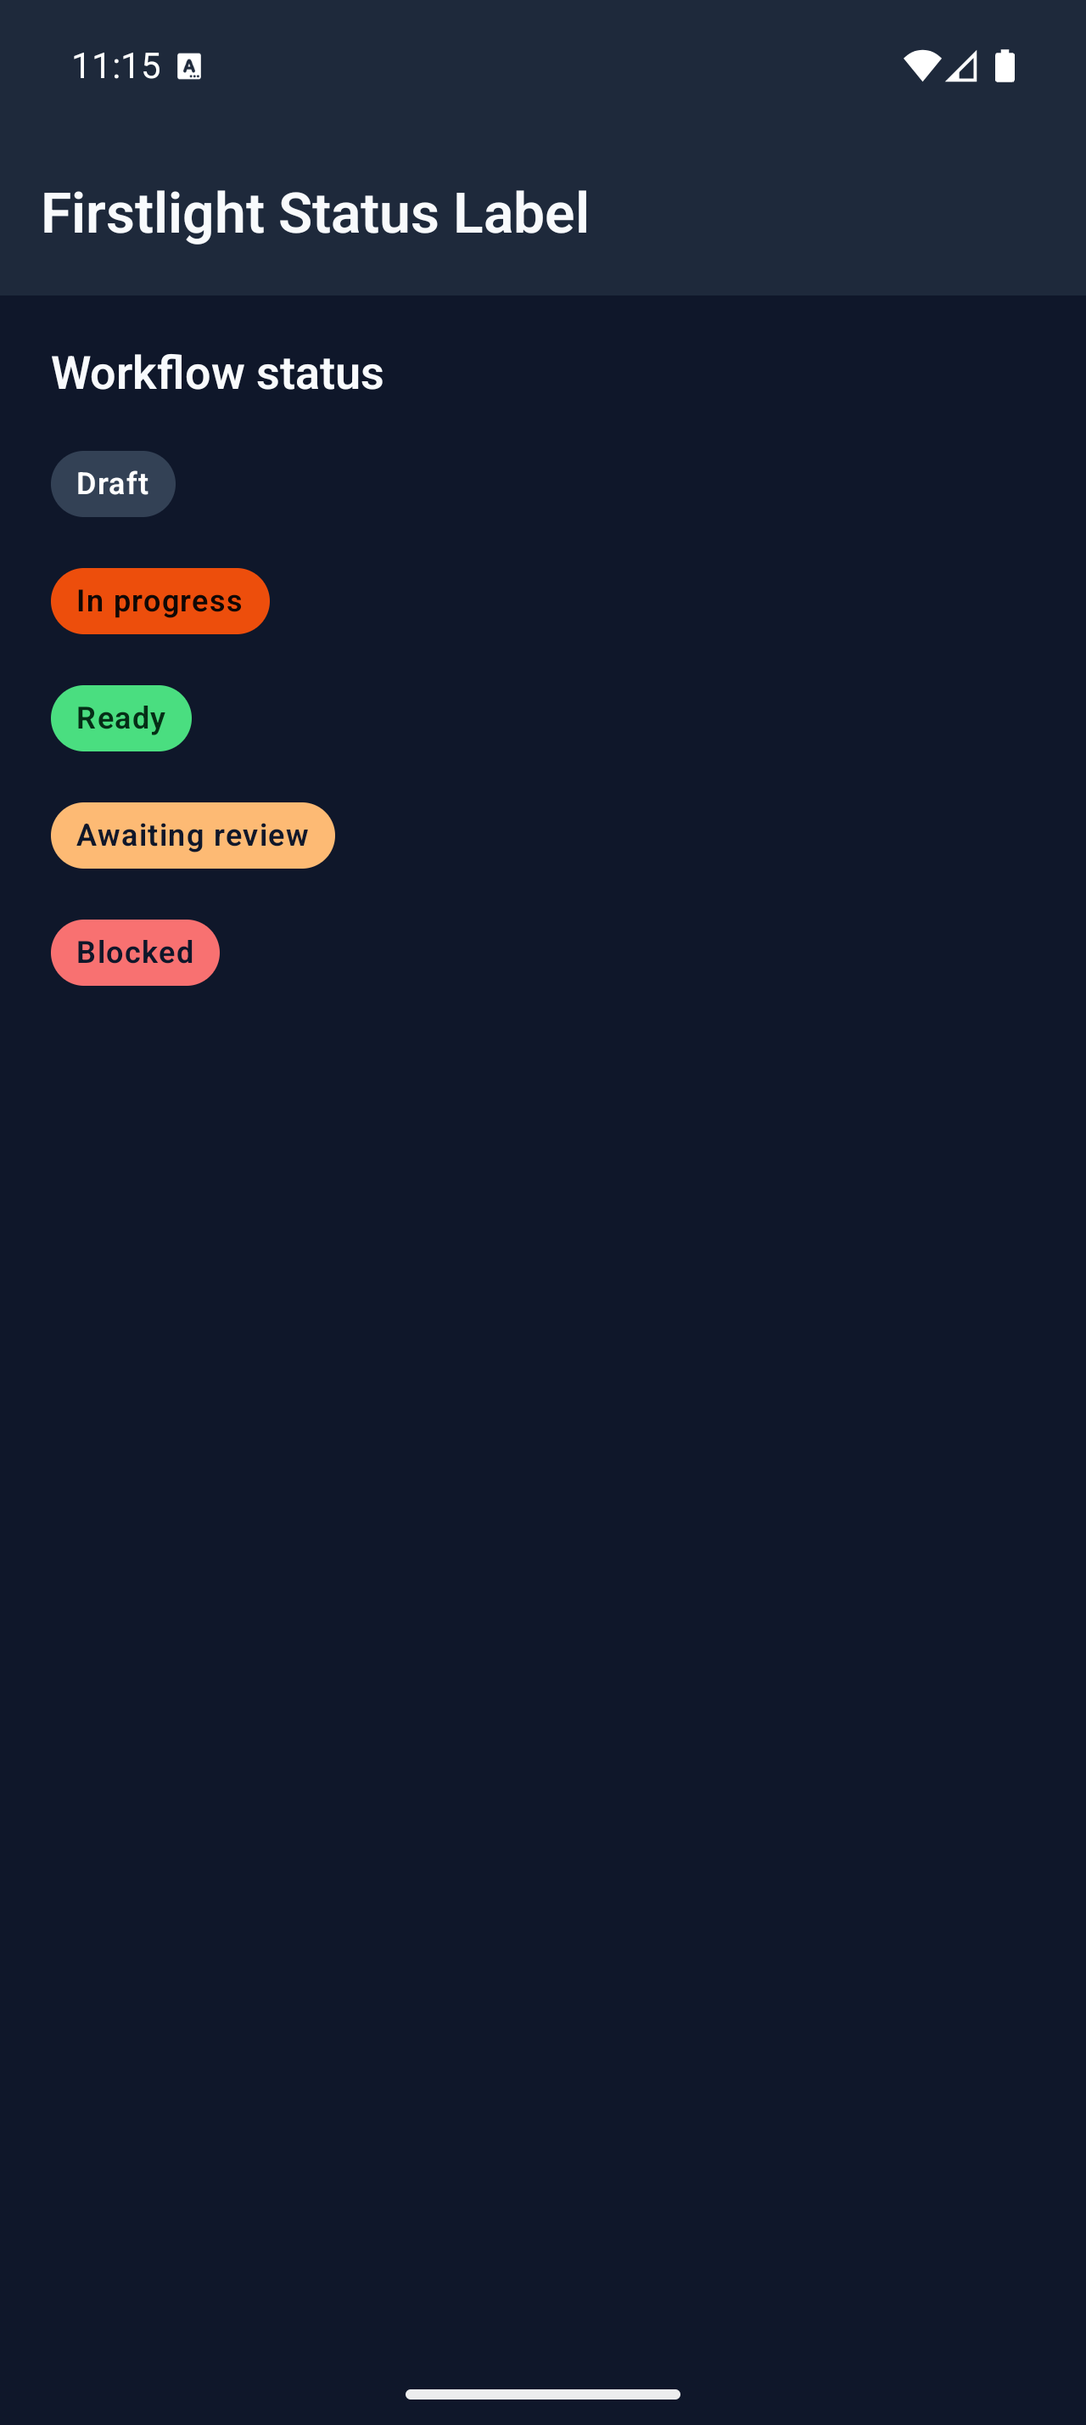
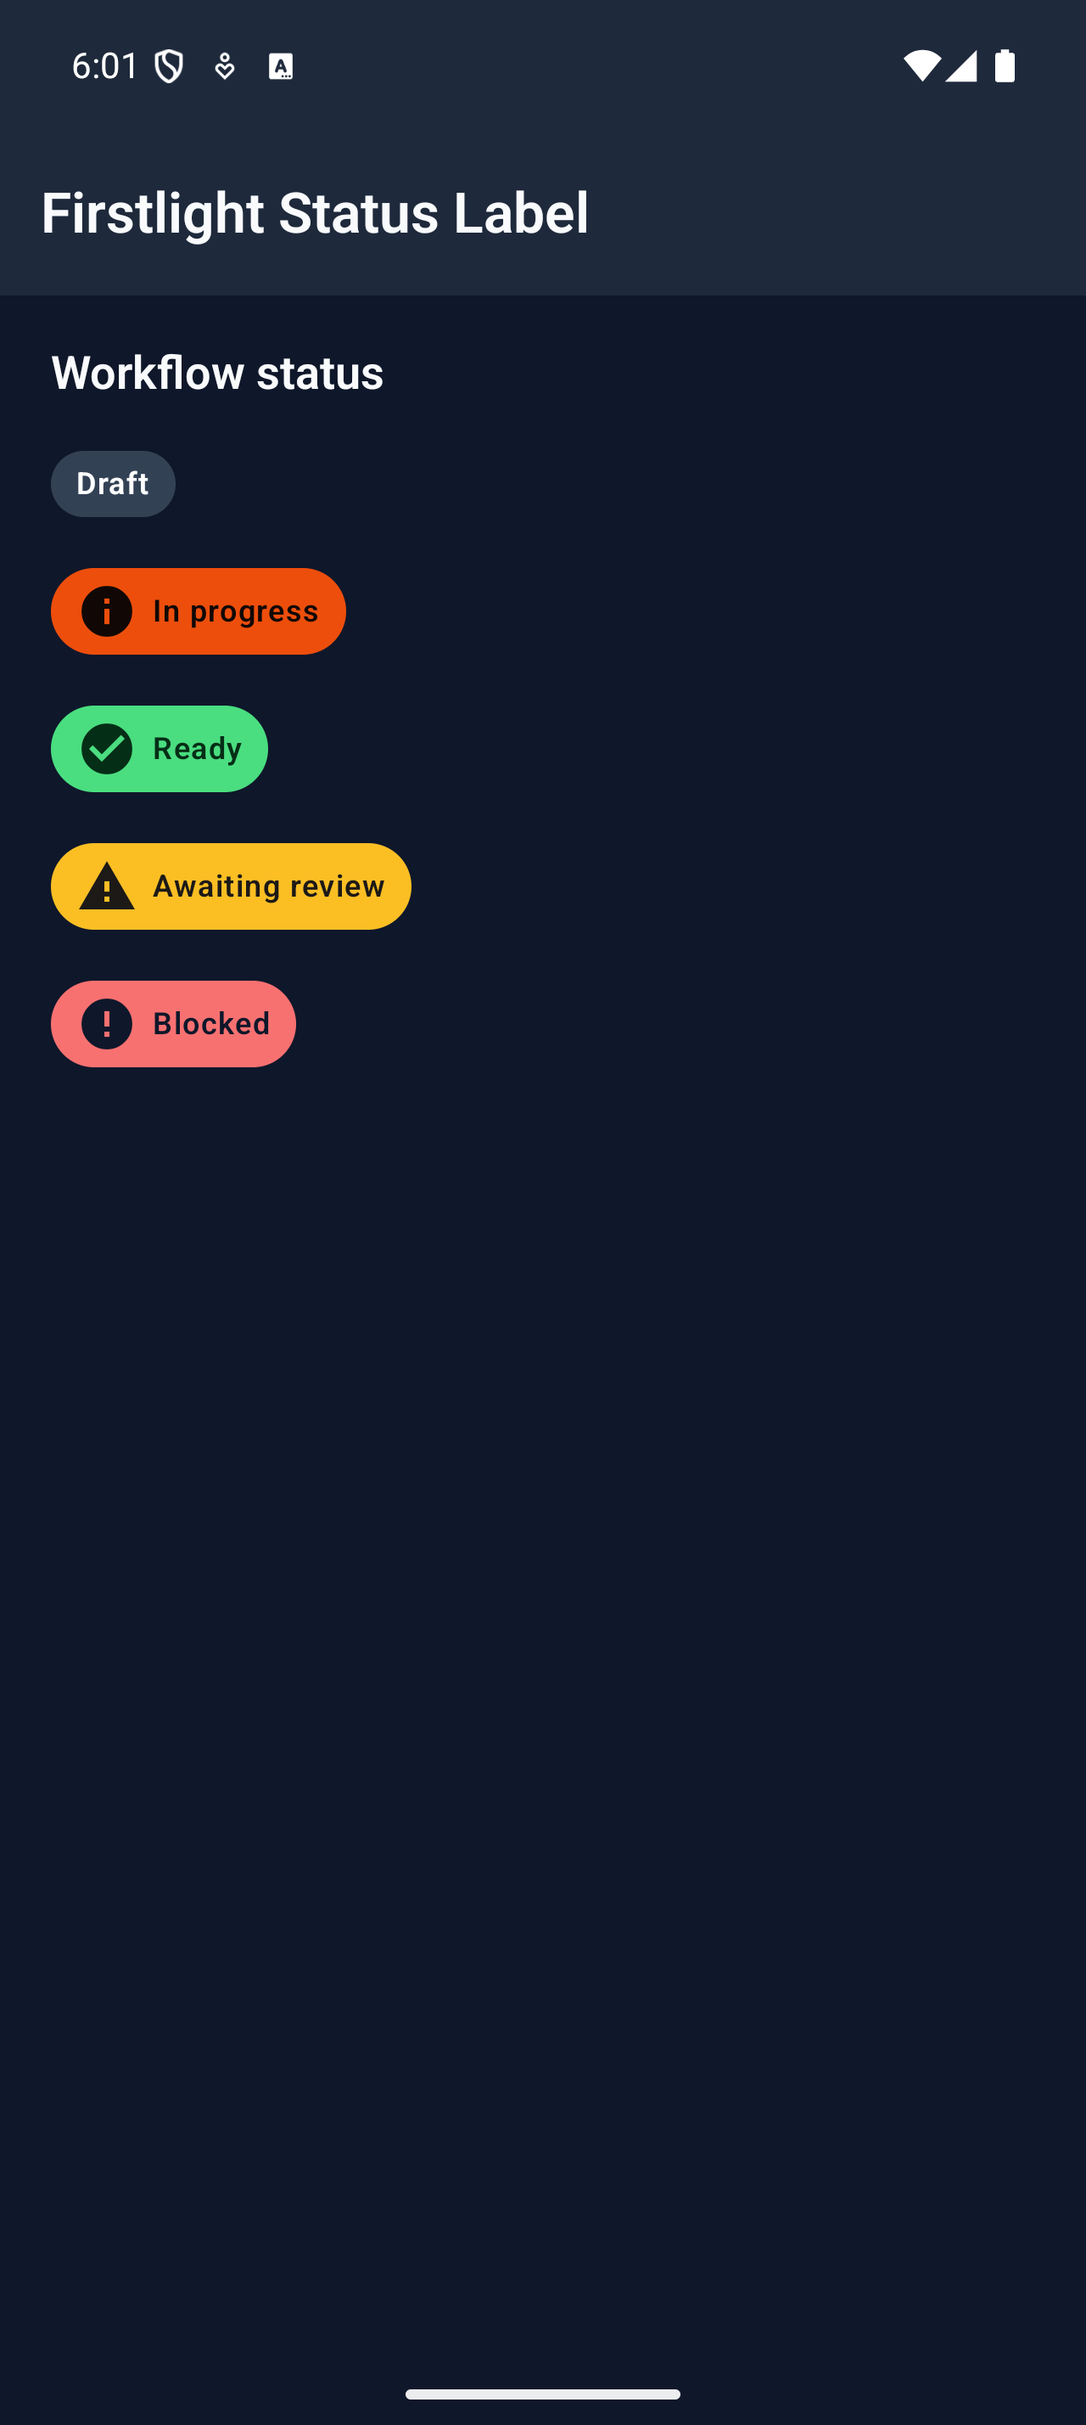
docs: add approved native evidence for Tipoff gaps
Record native builds, accessibility limits, restoration and the deferred upstream theme race. Publish both platform matrices and largest-text captures.

Amp-Thread-ID: https://ampcode.com/threads/T-01a164ab-17b5-7197-997c-db446686336b

diff --git a/spec/reviews/2026-10-22-tipoff-gaps-development.md b/spec/reviews/2026-10-22-tipoff-gaps-development.md
@@ -1,7 +1,7 @@
 ---
 title: Tipoff gaps development review
-description: Catalogue decisions, off-device evidence, and remaining native gates for the second Tipoff brief.
-status: blocked
+description: Catalogue decisions, approved native evidence, and outstanding release qualification for the second Tipoff brief.
+status: current
 sources:
   - Constitution.md
   - spec/designs/2026-10-22-tipoff-gaps-design.md
@@ -13,15 +13,19 @@ sources:
 
 # Tipoff gaps development review
 
-Reviewed 2026-10-22 in the Linux orb. Work is local and uncommitted; native runner
-selection and simulator/emulator permission have been requested. No package tag,
-release, deployment or upstream issue has been created.
+Reviewed 2026-10-22–23 in the Linux orb and on the user-authorized mini.local runner.
+Implementation commits:
+[package](https://github.com/firstlightui/nativephp/commit/6267f6c),
+[showcase](https://github.com/firstlightui/showcase/commit/f424aa5), and
+[showcase build metadata fix](https://github.com/firstlightui/showcase/commit/646a40d).
+The maintainer approved all twelve screenshots and explicitly deferred the
+upstream theme race. No stable/alpha qualification is claimed.
 
 | Brief item | Decision and current result |
 | --- | --- |
 | 1. Accessible tappable surface | Upstream core ownership. No duplicate generic container tag. Design note identifies released collector and both renderer paths; Blade preserves labels, native generic renderers do not consume the requested semantics. Consumer docs name safe Button/List Item alternatives without claiming arbitrary banners are solved. |
-| 2. Status Label icon | Implemented off-device with shared icon resolution, typed/platform overrides, decorative semantics and tone foreground. Native captures and iOS execution remain blocked. Existing text-only docs PNGs are preserved and explicitly labelled as old evidence. |
-| 3. Metric | New static semantic display; design then plan, scaffold, failing PHP tests then implementation. One grouped accessible description, formatted string value, tabular figures and wrapping. Optional press deferred to core; no tile/panel/layout API. Showcase/capture routes and docs added. Native capture and iOS execution remain blocked. |
+| 2. Status Label icon | Implemented with shared icon resolution, typed/platform overrides, decorative semantics and tone foreground. Both platform tests and consumer builds pass. Replacement native matrix and largest-text captures pass agent inspection and have explicit maintainer visual approval. |
+| 3. Metric | New static semantic display; design then plan, scaffold, failing PHP tests then implementation. One grouped accessible description, formatted string value, tabular figures and wrapping. Optional press deferred to core; no tile/panel/layout API. Both platform tests and consumer builds pass; complete native matrix and largest-text evidence pass agent inspection. |
 | 4. Status history | Design only in the Tipoff gaps design. Fits as semantic outcome history, not generic bars. Pending/empty/count/time semantics and non-colour cues recorded; no tag or implementation. |
 | 5. Feedback screen events | Laravel events retained, plus synchronous child-to-screen `emit()` with named action/dismiss payloads. Real screen-lifecycle Undo test proves republished state. Current-screen versus originating-screen/navigation limits and complete Undo example documented. |
 
@@ -32,25 +36,27 @@ release, deployment or upstream issue has been created.
 | I. SuperNative | PASS | Ordinary elements/manifest/renderers and existing `emit()`; no custom bridge, vendor patch or WebView. |
 | II. Familiar APIs | PASS | `icon`/`icon-ios`/`icon-android`, standard accessibility names, label/value/detail; no new Feedback tag. |
 | III. State | PASS | Metric is inert; Status Label remains display-only. Feedback removes before handlers, preserves action-before-dismiss order and consumes a semantic record once. |
-| IV. Equal platforms | BLOCKED | Both sources exist and Android compiles; iOS tests and both native consumer builds still required. |
-| V. Native expression | BLOCKED | SwiftUI text/SF Symbols and Material text/icons are implemented; native icon-bearing light/dark inspection remains pending. |
-| VI. Accessibility | BLOCKED | Android Metric semantics prove one description with no repeated fragments; Status Label decorative-icon semantics pass. iOS static grouping is implemented, but VoiceOver/TalkBack runtime checks and native largest-text evidence are pending. |
+| IV. Equal platforms | PASS (development) | Both platform test suites and native consumer builds pass. Physical-device release qualification remains separate. |
+| V. Native expression | PASS (development) | SwiftUI text/SF Symbols and Material text/icons pass native light/dark inspection on both targets. |
+| VI. Accessibility | BLOCKED (release) | Platform semantics tests and native largest-text wrapping pass. Android Metric has five combined descriptions without child fragments; Android Status Label has descriptions and text nodes but no icon-name nodes. iOS expanded trees include grouped labels and descendants. Spoken traversal remains unverified. |
 | VII. Theme | PASS | Semantic NativePHP tokens and package warning colours; no arbitrary style bag. |
 | VIII. Small expansion | PASS | Only Metric adds a semantic control; generic pressable/panels remain upstream; history is design-only. |
-| IX. Evidence | BLOCKED | Package/consumer/JVM checks pass; native host builds/captures and physical-device evidence are absent. |
+| IX. Evidence | PASS (development), BLOCKED (release) | Package/consumer/platform checks, native host builds, capture review and explicit maintainer visual approval pass. Physical-device, spoken AT, soak/performance and broader app qualification remain absent. |
 | X. Stewardship | PASS | Additive APIs; no version bump, tag or release-readiness claim. |
 | XI. Process | PASS | Create, platform, docs and review skills applied; Metric design/plan and public/maintained docs, manifest and showcase coverage exist. |
 
 ## Executed checks
 
-- Package full `vendor/bin/pest --compact`: 1,426 passed, 5 skipped, 4 warnings,
-  1 deprecated, 5,705 assertions at the combined checkpoint. The subsequent
-  selected-state rejection extends the focused Metric contract.
+- Package full `vendor/bin/pest --compact`: 1,427 passed, 5 skipped, 4 warnings,
+  1 deprecated, 5,706 assertions; reproduced on mini.local.
 - Focused Metric/FeedbackCenter/StatusLabel suite after that extension: 63 passed,
   266 assertions.
 - Full showcase `php artisan test --compact`: 172 passed, 3,334 assertions.
 - Full Android `testDebugUnitTest`: BUILD SUCCESSFUL; XML reports 290 tests,
   0 failures, 0 errors, 12 skipped (278 executed).
+- iOS package tests: TEST SUCCEEDED, exit 0; 282 tests, 6 skipped, 0 failures.
+  Diagnostic collection separately emitted a 600-second timeout warning after
+  the tests completed; this does not represent a failed test.
 - `bin/check-component Metric --development` and `StatusLabel --development`:
   passed.
 - `bin/build-docs-artifacts`, `bin/check-docs --development`, both repository
@@ -60,21 +66,73 @@ release, deployment or upstream issue has been created.
 - Inspected Metric Paparazzi light, dark and font-scale 2.0 production-renderer
   development renders: all values visible; long value wraps in full. These use
   the JVM harness and are **not** showcase emulator documentation captures.
+- Guarded native batch: eight default captures (two components, two platforms,
+  light/dark) pass agent inspection. Real Material/SF Symbol glyphs are visible;
+  Draft intentionally covers the optional text-only Status Label presentation.
+- Maximum iOS accessibility text and Android font scale 2.0: long Status Label
+  text and the Metric value `1,234.50 milliseconds` remain complete. iOS content
+  is scrollable; separate scrolled captures show the full long labels/values
+  clear of the floating showcase footer. No ellipsis or internal truncation.
 
 ## Remaining gates and handoff
 
-Choose the connected Mac runner and explicitly authorize the already-open native
-targets before any target listing, build/capture or appearance changes. Install
-the exact local package/showcase files there via file transfer, not a remote main
-checkout (this orb's work is unpushed). Preserve unrelated local edits. Use the
-guarded batch capture for StatusLabel and Metric; add largest text evidence on
-both platforms, restore appearances, and inspect every new image. Only approved
-native documentation PNGs belong under `docs/screenshots/`.
+The user authorized the available mini.local simulators and emulators. Exact
+package/showcase files were transferred over matching bases, preserving unrelated
+untracked directories. Native targets are iPhone 17 Pro / iOS 26.5
+(`EB44C64E-1579-4C13-A1F9-C44FBD496763`) and Pixel_9_Pro / Android 16 API 36
+(`emulator-5554`). The guarded batch completed for StatusLabel and Metric.
+The approved matrix and largest-text PNGs are committed under
+`docs/screenshots/{status-label,metric}/`: each directory contains `ios-light.png`,
+`ios-dark.png`, `android-light.png`, `android-dark.png`, `ios-largest-text.png` and
+`android-largest-text.png`. Approval: maintainer `wojt`, in the
+[source thread](https://ampcode.com/threads/T-01a164ab-17b5-7197-997c-db446686336b).
+
+Final evidence archive: `firstlight-gaps-mini-final.tar.gz`, SHA-256
[1 lines of base64/hex data omitted]
+Transfer checksum and eight real default PNG entries were verified in the orb;
+the default PNGs byte-match the inspected and approved review images.
+
+Restoration verified: iOS remains booted with original dark appearance, large
+content size and Reduce Motion enabled. Android night mode, font scale and
+animator setting were restored; only the AVD started for this task was shut down.
+Both installed start routes are `/`, both preview caches are light, and the host
+showcase `.env` hash is unchanged. Build-induced lockfile changes were restored;
+preexisting adjacent untracked work was preserved.
+
+The first iOS Metric captures were rejected: they displayed Status Label because
+cold launches re-extracted the first bundled route. Installed bundle metadata
+proved that the environment build number was serialized as a string; iOS's
+numeric-only version reader fell back to zero and mismatched the installed build.
+Casting showcase's `version_code` to an integer produces numeric JSON and fixes
+the mismatch without a vendor patch. A string environment fixture `"17"` emitted
+`{"version_code":"17"}` before and `{"version_code":17}` after; the rebuilt native
+bundle contains numeric `1`. Showcase's full suite still passes after the fix.
+Rejected captures are not documentation evidence.
+
+An additional interactive-preview check exposed an existing upstream theme race,
+not a Metric or Status Label styling change. With system-dark and preview-light,
+simulator stdout records both light palettes at lines 100–141, the first tree
+publication at 142–143, then configured light/dark palettes from line 149 onward.
+Timestamped stderr records the queue worker and four async TSRM contexts booting
+after dispatch. Each context boots Mobile UI's service provider, whose
+`NativeUIServiceProvider.php:65–66` calls `Theme::load()`; the iOS bridge writes the
+shared global store (`NativeUIThemeFunctions.swift:15–18`). Static tree background
+props retain the preview palette while native renderers resolve the overwritten
+global theme against system appearance, producing unreadable text. All four
+OS/preview combinations were executed on both platforms: matched themes pass;
+opposite themes fail cold. Warm-toggle reapplication restores Metric text but not
+all toggle/chrome/warning contrast, so it is not a qualified workaround. Android
+reproduces the visual failure; the detailed worker-bootstrap trace is iOS-only.
+The maintainer explicitly deferred this upstream issue. No vendor patch or
+parallel theme system is added.
 
 Android's official `MaterialIcon` helper does not take a variant-font argument;
 the icon variant is preserved in wire/configuration, while glyph drawing follows
 the official helper. Do not treat JVM icon shims as native glyph evidence.
 
-Overall development and release verdict: **BLOCKED on native evidence**. Finish
-those gates before the authorized direct-to-main landing; then replace this
-provisional delivery/evidence status with actual commit links and capture paths.
+Overall development verdict: **PASS with the explicitly deferred upstream preview
+race**. Release qualification remains **BLOCKED** on physical-device, spoken
+screen-reader and broader runtime gates; no stable/alpha-ready claim is made here.
+Pushing directly to main is authorized. The user requested the next RC when ready;
+the separate question about retaining RC1's disclosed qualification limits remains
+unanswered and is not inferred from screenshot approval or theme-race deferral.

diff --git a/CHANGELOG.md b/CHANGELOG.md
@@ -2,6 +2,26 @@
 
 All notable changes to this project will be documented in this file.
 
+## Unreleased
+
+### Added
+
+- Optional decorative Status Label icons using the shared `icon`, `icon-ios`, and `icon-android` contract, with tone-owned foregrounds in both appearances.
+- Static Metric display with a label, formatted string value, optional detail and semantic tone, one accessible description, tabular figures and large-text wrapping.
+- Catalogue decision notes for the core-owned accessible tappable surface and a design-only status-history display.
+
+### Fixed
+
+- Deliver Feedback action and dismissal events to the active screen's `#[On]` handlers as well as Laravel listeners, preserving exactly-once consumption and action-before-dismiss ordering. Screen-local Undo now participates in the normal interaction repaint.
+
+### Known limitations
+
+- Physical-device, spoken VoiceOver/TalkBack traversal, soak/performance and wider-application qualification remain outstanding; simulator/emulator evidence is not stable-release qualification.
+- Arbitrary tappable surfaces remain a NativePHP core accessibility handoff; Metric is display-only, and no status-history control is implemented.
+- NativePHP's Android Material icon helper draws the resolved icon name but does not accept a separate variant-font argument.
+- Opposite-system appearance previews in the showcase can lose contrast when upstream worker bootstraps overwrite the shared native theme. This existing theme-ownership race is explicitly deferred, not patched in Firstlight.
+- Requirements remain PHP `^8.4`, NativePHP Mobile `^4.6`, Mobile UI `^0.8`, iOS 18+, Android API 29+, and Swift tools 6.2.
+
 ## 1.0.0-RC1 - 2026-10-21
 
 ### Added

diff --git a/docs/components/metric.md b/docs/components/metric.md
@@ -75,7 +75,22 @@ the [supported NativePHP versions](../reference/compatibility.md).
 
 ## Screenshot evidence
 
-The stable showcase route is `/captures/metric`. The required matrix is
-`docs/screenshots/metric/{ios,android}-{light,dark}.png`, plus largest accessibility
-text evidence on both platforms. Native capture and screen-reader verification
-remain pending; this page does not claim release qualification from PHP tests.
+The stable showcase route is `/captures/metric`. These approved native captures
+use iPhone 17 Pro / iOS 26.5 and Pixel 9 Pro / Android 16 API 36.
+
+| Platform | Light | Dark |
+| --- | --- | --- |
+| iOS | ![Metric on iOS in light mode](../screenshots/metric/ios-light.png) | ![Metric on iOS in dark mode](../screenshots/metric/ios-dark.png) |
+| Android | ![Metric on Android in light mode](../screenshots/metric/android-light.png) | ![Metric on Android in dark mode](../screenshots/metric/android-dark.png) |
+
+The interactive showcase's longer value remains complete at maximum iOS
+accessibility text size and Android font scale 2.0. The iOS capture is scrolled to
+show the wrapped value; content behind native navigation chrome is outside the
+current viewport, not truncated by Metric.
+
+| iOS maximum accessibility text | Android font scale 2.0 |
+| --- | --- |
+| ![Metric with a wrapped long value on iOS](../screenshots/metric/ios-largest-text.png) | ![Metric with a long value on Android](../screenshots/metric/android-largest-text.png) |
+
+These are simulator/emulator visual checks. Spoken VoiceOver/TalkBack traversal
+and physical-device release qualification remain unverified.

diff --git a/docs/components/status-label.md b/docs/components/status-label.md
@@ -90,9 +90,22 @@ Status Label supports the versions listed in the current [compatibility referenc
 
 ## Screenshots
 
-The existing captures below show the text-only presentation. Updated icon-bearing light, dark, and accessibility-size native captures are pending runner permission; they are not evidence for the new icon treatment.
+These approved native captures use iPhone 17 Pro / iOS 26.5 and Pixel 9 Pro /
+Android 16 API 36. Draft retains the optional text-only presentation; the other
+tones include decorative platform icons.
 
 | Platform | Light | Dark |
 | --- | --- | --- |
 | iOS | ![Status Label on iOS in light mode](../screenshots/status-label/ios-light.png) | ![Status Label on iOS in dark mode](../screenshots/status-label/ios-dark.png) |
 | Android | ![Status Label on Android in light mode](../screenshots/status-label/android-light.png) | ![Status Label on Android in dark mode](../screenshots/status-label/android-dark.png) |
+
+Long labels wrap within their fill at maximum iOS accessibility text size and
+Android font scale 2.0. The interactive showcase is scrolled to show the complete
+long label below.
+
+| iOS maximum accessibility text | Android font scale 2.0 |
+| --- | --- |
+| ![Status Label with a wrapped long label on iOS](../screenshots/status-label/ios-largest-text.png) | ![Status Label with a wrapped long label on Android](../screenshots/status-label/android-largest-text.png) |
+
+These are simulator/emulator visual checks, not spoken VoiceOver/TalkBack or
+physical-device release qualification.
